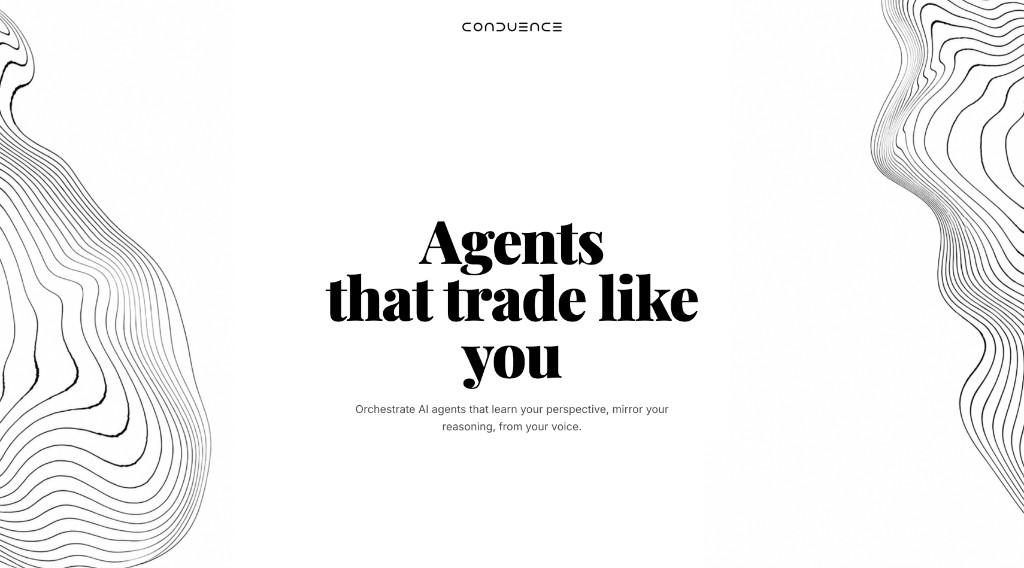
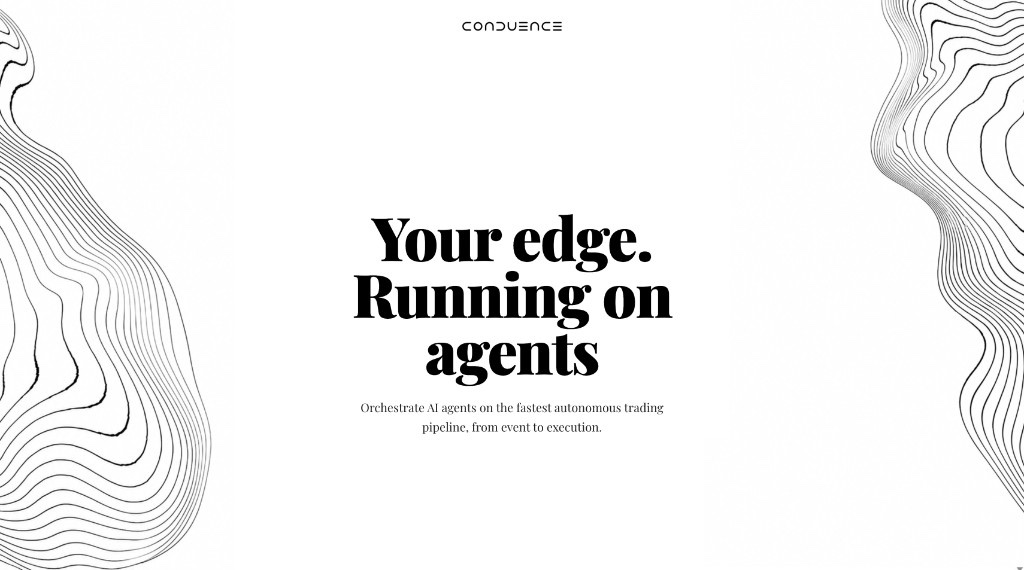
chore: update Open Graph image dimensions and alt text for improved SEO

diff --git a/src/app/layout.tsx b/src/app/layout.tsx
@@ -21,8 +21,8 @@ const display = Playfair_Display({
 const ogImage = {
   url: "/og.jpg",
   width: 1024,
-  height: 568,
-  alt: "CONDUENCE. Agents that trade like you",
+  height: 570,
+  alt: "CONDUENCE. Your edge. Running on agents",
 };
 
 export const metadata: Metadata = {